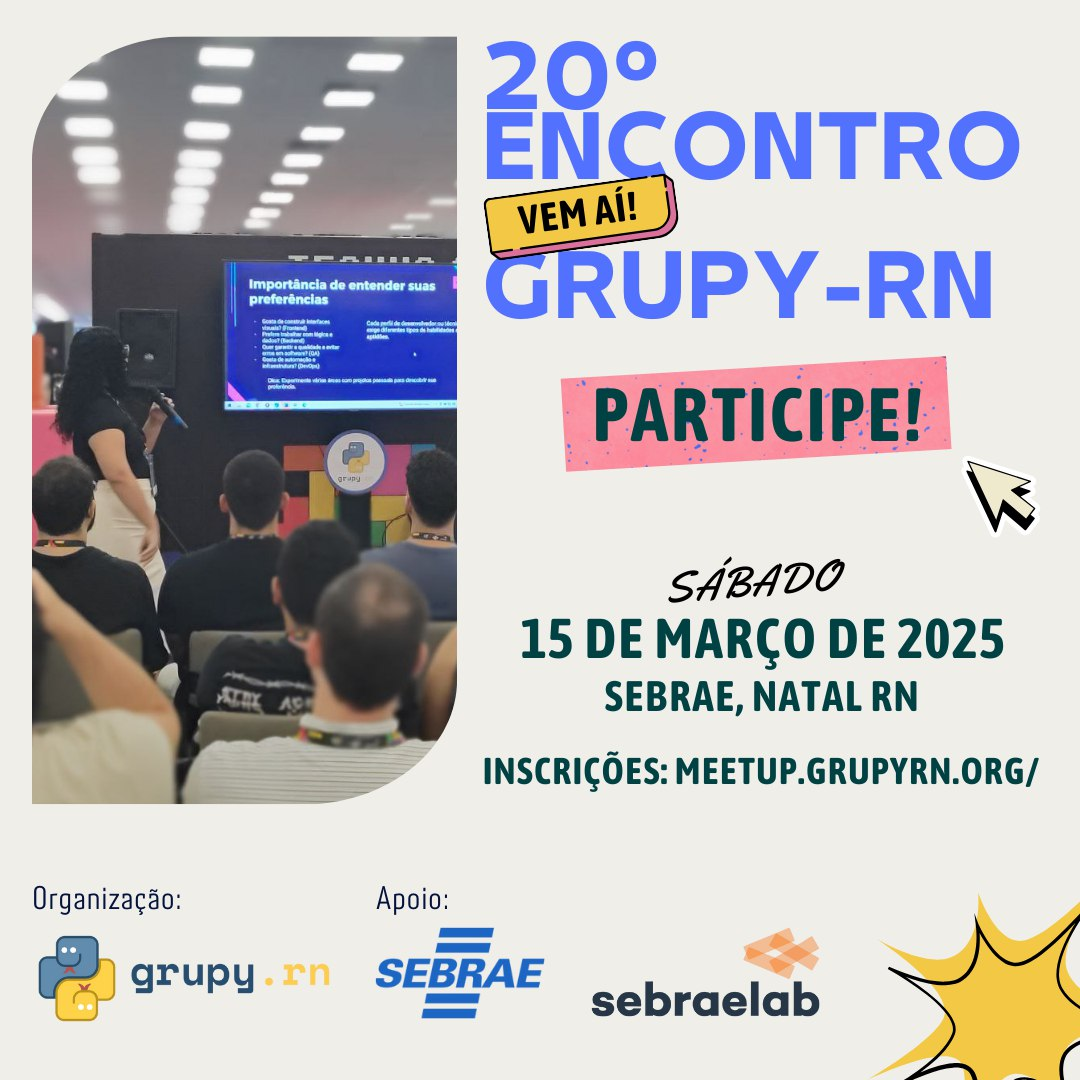
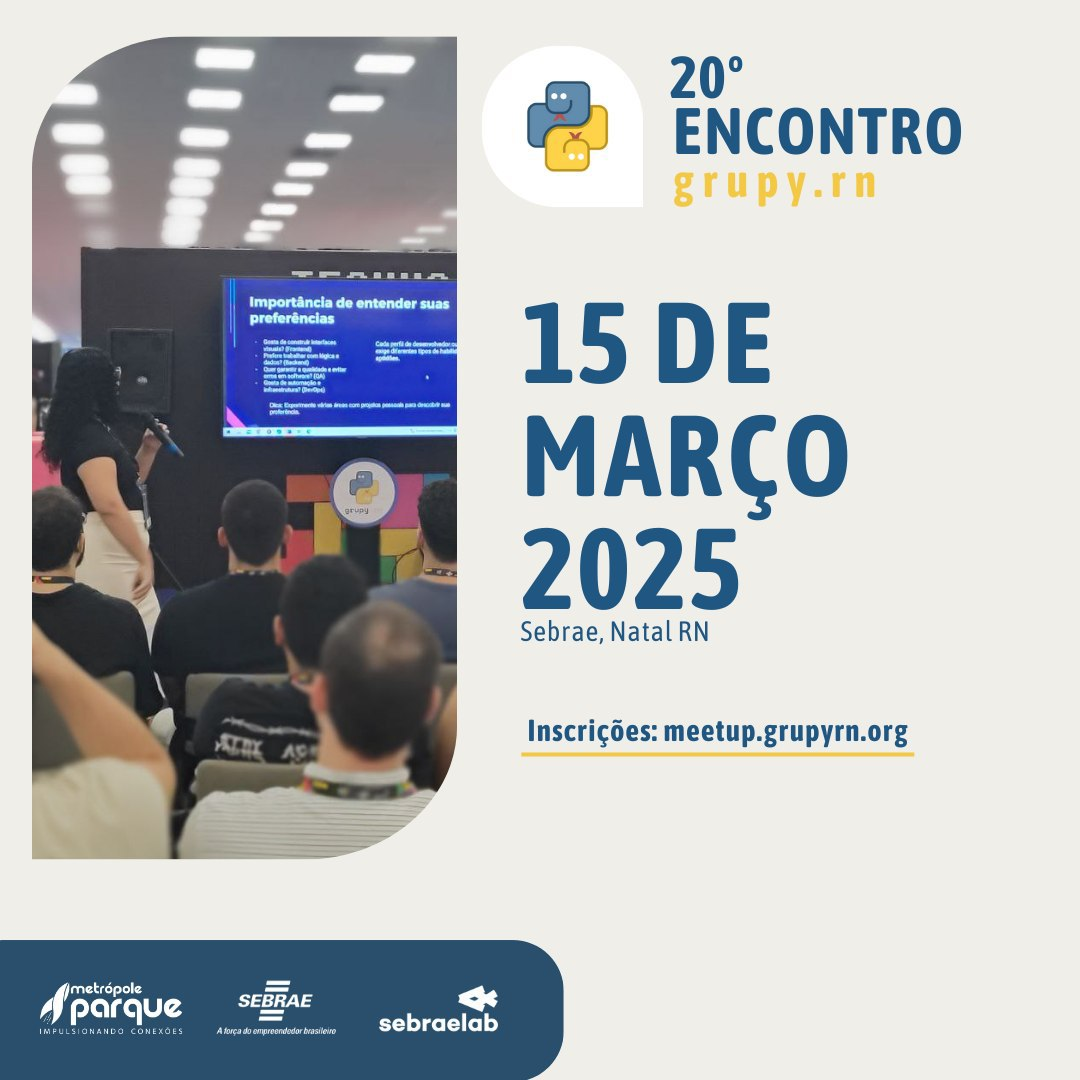
Altera capa para versão mais nova, e faz edições no post
- Coloca como destaque na tela inicial
- Mudando nome de alguns lugares de "meetup" para "encontro"

diff --git a/_posts/2025-03-06-meetup-20.md b/_posts/2025-03-06-meetup-20.md
@@ -1,18 +1,17 @@
 ---
 layout: post
-title: "20º Meetup GruPy-RN"
+title: "20º Encontro do GruPy-RN"
 date: 2025-03-02 12:00:00 -0300
 author: jhonatacaiob
 image: assets/images/2025/meetup-20/capa.jpg
 categories: [Comunidade]
 comments: false
-featured: false
+featured: true
 excerpt: >
-  Está chegando mais um meetup do Grupy-RN, estamos muito animados para mais um encontro. Vamos ter muitas novidades.
+  Está chegando mais um evento do Grupy-RN, estamos muito animados para mais um encontro!
 ---
 
-Está chegando mais um meetup do Grupy-RN, estamos muito animados para mais um
-encontro. Vamos ter muitas novidades 🎉
+Está chegando mais um evento do Grupy-RN, estamos muito animados para mais um encontro!
 
 - [Conhecendo o GruPy-RN](#conhecendo-o-grupy-rn)
 - [Cronograma](#cronograma)
@@ -33,17 +32,14 @@ Esses encontros são organizados pela comunidade para a comunidade ❤
 
 <div style="text-align:center">
     <img src="{{ site.baseurl }}/assets/images/2025/meetup-20/meetup-19.jpg"/>
-    <figcaption>Foto do 20º meetup do GruPy-RN</figcaption>
+    <figcaption>Foto do 19º encontro do GruPy-RN</figcaption>
 </div>
 <br>
 
 ### Cronograma
 
-Todas as atividades serão realizadas no turno da manhã. Vamos ter palestras
-simultaneas que irão acontecer nas salas 4 e 5 e no auditório principal,
-que fica no na parte supeior do SEBRAE.
+Todas as atividades serão realizadas no turno da manhã. Teremos palestras e minicursos simultâneas, com as palestras nas salas 4 e 5 e o minicurso nas salas 2 e 3.
 
-A abertura  e encerramento do evento será no auditório principal.
 
 <div style="text-align:center">
     <img src="{{ site.baseurl }}/assets/images/2025/meetup-20/programacao-1.jpg"/>
@@ -51,8 +47,6 @@ A abertura  e encerramento do evento será no auditório principal.
     <img src="{{ site.baseurl }}/assets/images/2025/meetup-20/programacao-2.jpg"/>
     <p>&nbsp;</p>
 </div>
-
-**Realização do sorteio durante o evento, com os participantes presentes.**
 
 ## Quero participar do evento
 
@@ -63,6 +57,9 @@ abaixo.
 <br>
 🚫 Não pode entrar no dia sem ser inscrito.
 <br>
+📅 As inscrições encerram dia 14/03/2025 ás 11h.
+<br>
+
 
 [Link da inscrição: https://meetup.grupyrn.org/20-encontro/register](https://meetup.grupyrn.org/20-encontro/register)
 

diff --git a/_posts/2024-11-25-meetup-19.md b/_posts/2024-11-25-meetup-19.md
@@ -6,7 +6,7 @@ author: rio
 image: assets/images/2024/meetup-19/capa.png
 categories: [Comunidade]
 comments: false
-featured: true
+featured: false
 excerpt: >
   Está chegando mais um meetup do Grupy-RN, estamos muito animados para mais um encontro. Vamos ter muitas novidades.
 ---
